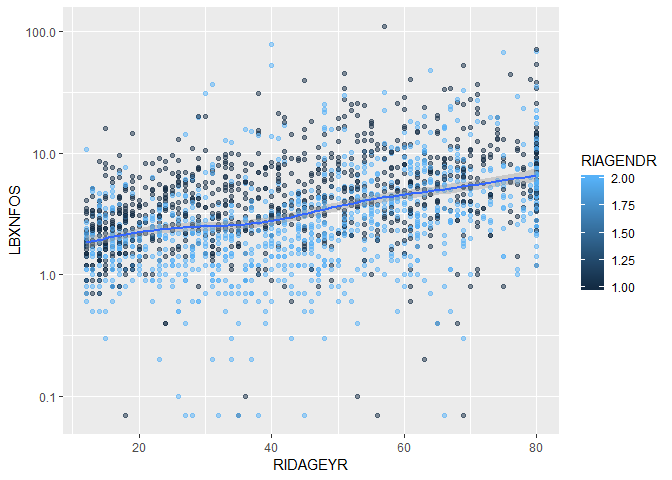
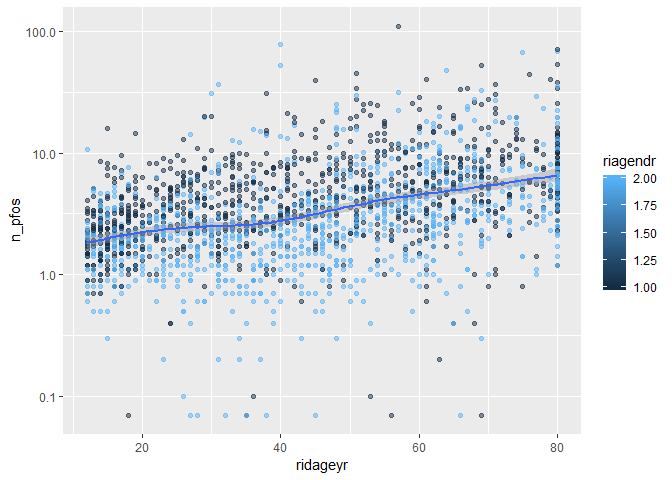
added daily intake section

diff --git a/aamehs_proposal.md b/aamehs_proposal.md
@@ -11,6 +11,7 @@ February 13, 2019
         -   [3. Serum PFAS levels serve as a mediator between water/food consumption and body mass.](#serum-pfas-levels-serve-as-a-mediator-between-waterfood-consumption-and-body-mass.)
         -   [Additional: PFAS levels are associated with other chemicals in serum which are common pollutants at industrial sites or airfields](#additional-pfas-levels-are-associated-with-other-chemicals-in-serum-which-are-common-pollutants-at-industrial-sites-or-airfields)
     -   [Data Source: NHANES](#data-source-nhanes)
+    -   [NHANES Dietary Interviews](#nhanes-dietary-interviews)
     -   [PFAS](#pfas)
         -   [Load and Inspect PFAS data](#load-and-inspect-pfas-data)
         -   [Basic 2015-2016 PFAS summary table](#basic-2015-2016-pfas-summary-table)
@@ -65,6 +66,8 @@ Potential confounders, effect modifiers, or co-variates of interest:
 -   smoking status
 -   household income
 -   alcohol
+-   waist circumference, 2 years of age and older
+-   sagittal abdominal diameter, 8 years of age and older
 
 *References*: <https://www.ncbi.nlm.nih.gov/pubmed/?term=PFAS+and+BMI>
 
@@ -119,6 +122,22 @@ files %>% count(component)
     ## 4 laboratory      643
     ## 5 questionnaire   438
 
+NHANES Dietary Interviews
+-------------------------
+
+*Reference*: <https://wwwn.cdc.gov/Nchs/Nhanes/2015-2016/DR1IFF_I.htm>
+
+Detailed information about each food/beverage item (including the description, amount of, and nutrient content) reported by each participant is included in the Individual Foods files.
+
+-   Drinking water variables:
+
+    -   Total plain water drank yesterday (gm)
+    -   Total tap water drank yesterday (gm)
+    -   Total bottled water drank yesterday (gm)
+    -   Tap water source
+
+-   Fish consumption during past 30 days (by type)
+
 PFAS
 ----
 
@@ -127,12 +146,15 @@ PFAS
 NHANES Codebook References: <https://wwwn.cdc.gov/Nchs/Nhanes/2013-2014/PFAS_H.htm> <https://wwwn.cdc.gov/Nchs/Nhanes/2015-2016/PFAS_I.htm>
 
 ``` r
-pfas_data <- nhanes_load_data("PFAS_I", "2015-2016", demographics = TRUE)
+pfas_data <- nhanes_load_data("PFAS_I", "2015-2016", demographics = TRUE) %>% 
+  janitor::clean_names() %>% 
+  rename(pfdea = lbxpfde, pfhxs = lbxpfhs, me_pfosa_acoh = lbxmpah, pfna = lbxpfna, pfua = lbxpfua, pfdoa = lbxpfdo, n_pfoa = lbxnfoa,  sb_pfoa = lbxbfoa, n_pfos = lbxnfos,    sm_pfos = lbxmfos)
+  
 as_tibble(pfas_data)
 ```
 
     ## # A tibble: 2,170 x 72
-    ##     SEQN cycle SDDSRVYR RIDSTATR RIAGENDR RIDAGEYR RIDAGEMN RIDRETH1
+    ##     seqn cycle sddsrvyr ridstatr riagendr ridageyr ridagemn ridreth1
     ##    <dbl> <chr>    <dbl>    <dbl>    <dbl>    <dbl>    <dbl>    <dbl>
     ##  1 83736 2015~        9        2        2       42       NA        4
     ##  2 83745 2015~        9        2        2       15       NA        3
@@ -144,30 +166,30 @@ as_tibble(pfas_data)
     ##  8 83770 2015~        9        2        1       15       NA        4
     ##  9 83774 2015~        9        2        2       13       NA        3
     ## 10 83776 2015~        9        2        2       58       NA        1
-    ## # ... with 2,160 more rows, and 64 more variables: RIDRETH3 <dbl>,
-    ## #   RIDEXMON <dbl>, RIDEXAGM <dbl>, DMQMILIZ <dbl>, DMQADFC <dbl>,
-    ## #   DMDBORN4 <dbl>, DMDCITZN <dbl>, DMDYRSUS <dbl>, DMDEDUC3 <dbl>,
-    ## #   DMDEDUC2 <dbl>, DMDMARTL <dbl>, RIDEXPRG <dbl>, SIALANG <dbl>,
-    ## #   SIAPROXY <dbl>, SIAINTRP <dbl>, FIALANG <dbl>, FIAPROXY <dbl>,
-    ## #   FIAINTRP <dbl>, MIALANG <dbl>, MIAPROXY <dbl>, MIAINTRP <dbl>,
-    ## #   AIALANGA <dbl>, DMDHHSIZ <dbl>, DMDFMSIZ <dbl>, DMDHHSZA <dbl>,
-    ## #   DMDHHSZB <dbl>, DMDHHSZE <dbl>, DMDHRGND <dbl>, DMDHRAGE <dbl>,
-    ## #   DMDHRBR4 <dbl>, DMDHREDU <dbl>, DMDHRMAR <dbl>, DMDHSEDU <dbl>,
-    ## #   WTINT2YR <dbl>, WTMEC2YR <dbl>, SDMVPSU <dbl>, SDMVSTRA <dbl>,
-    ## #   INDHHIN2 <dbl>, INDFMIN2 <dbl>, INDFMPIR <dbl>, WTSB2YR <dbl>,
-    ## #   LBXPFDE <dbl>, LBDPFDEL <dbl>, LBXPFHS <dbl>, LBDPFHSL <dbl>,
-    ## #   LBXMPAH <dbl>, LBDMPAHL <dbl>, LBXPFNA <dbl>, LBDPFNAL <dbl>,
-    ## #   LBXPFUA <dbl>, LBDPFUAL <dbl>, LBXPFDO <dbl>, LBDPFDOL <dbl>,
-    ## #   LBXNFOA <dbl>, LBDNFOAL <dbl>, LBXBFOA <dbl>, LBDBFOAL <dbl>,
-    ## #   LBXNFOS <dbl>, LBDNFOSL <dbl>, LBXMFOS <dbl>, LBDMFOSL <dbl>,
-    ## #   file_name <chr>, begin_year <dbl>, end_year <dbl>
+    ## # ... with 2,160 more rows, and 64 more variables: ridreth3 <dbl>,
+    ## #   ridexmon <dbl>, ridexagm <dbl>, dmqmiliz <dbl>, dmqadfc <dbl>,
+    ## #   dmdborn4 <dbl>, dmdcitzn <dbl>, dmdyrsus <dbl>, dmdeduc3 <dbl>,
+    ## #   dmdeduc2 <dbl>, dmdmartl <dbl>, ridexprg <dbl>, sialang <dbl>,
+    ## #   siaproxy <dbl>, siaintrp <dbl>, fialang <dbl>, fiaproxy <dbl>,
+    ## #   fiaintrp <dbl>, mialang <dbl>, miaproxy <dbl>, miaintrp <dbl>,
+    ## #   aialanga <dbl>, dmdhhsiz <dbl>, dmdfmsiz <dbl>, dmdhhsza <dbl>,
+    ## #   dmdhhszb <dbl>, dmdhhsze <dbl>, dmdhrgnd <dbl>, dmdhrage <dbl>,
+    ## #   dmdhrbr4 <dbl>, dmdhredu <dbl>, dmdhrmar <dbl>, dmdhsedu <dbl>,
+    ## #   wtint2yr <dbl>, wtmec2yr <dbl>, sdmvpsu <dbl>, sdmvstra <dbl>,
+    ## #   indhhin2 <dbl>, indfmin2 <dbl>, indfmpir <dbl>, wtsb2yr <dbl>,
+    ## #   pfdea <dbl>, lbdpfdel <dbl>, pfhxs <dbl>, lbdpfhsl <dbl>,
+    ## #   me_pfosa_acoh <dbl>, lbdmpahl <dbl>, pfna <dbl>, lbdpfnal <dbl>,
+    ## #   pfua <dbl>, lbdpfual <dbl>, pfdoa <dbl>, lbdpfdol <dbl>, n_pfoa <dbl>,
+    ## #   lbdnfoal <dbl>, sb_pfoa <dbl>, lbdbfoal <dbl>, n_pfos <dbl>,
+    ## #   lbdnfosl <dbl>, sm_pfos <dbl>, lbdmfosl <dbl>, file_name <chr>,
+    ## #   begin_year <dbl>, end_year <dbl>
 
 ### Basic 2015-2016 PFAS summary table
 
 ``` r
 pfas_data %>%
-  select(SEQN, LBXPFDE, LBXPFHS, LBXMPAH,   LBXPFNA, LBXPFUA,   LBXPFDO, LBXNFOA,   LBXBFOA, LBXNFOS,   LBXMFOS) %>% 
-  gather(key = "analyte", value = "value", LBXPFDE:LBXMFOS) %>% 
+  select(seqn, pfdea, pfhxs, me_pfosa_acoh, pfna, pfua, pfdoa, n_pfoa, sb_pfoa, n_pfos, sm_pfos) %>% 
+  gather(key = "analyte", value = "value", pfdea:sm_pfos) %>% 
   group_by(analyte) %>% 
   na.omit() %>% 
   summarise(n = n(), 
@@ -176,25 +198,25 @@ pfas_data %>%
   knitr::kable(digits = 2)
 ```
 
-| analyte |     n|  mean|    sd|
-|:--------|-----:|-----:|-----:|
-| LBXBFOA |  1993|  0.07|  0.02|
-| LBXMFOS |  1993|  1.94|  1.88|
-| LBXMPAH |  1993|  0.17|  0.27|
-| LBXNFOA |  1993|  1.81|  1.63|
-| LBXNFOS |  1993|  5.10|  6.84|
-| LBXPFDE |  1993|  0.26|  0.45|
-| LBXPFDO |  1993|  0.07|  0.01|
-| LBXPFHS |  1993|  1.61|  1.75|
-| LBXPFNA |  1993|  0.78|  0.70|
-| LBXPFUA |  1993|  0.16|  0.26|
+| analyte         |     n|  mean|    sd|
+|:----------------|-----:|-----:|-----:|
+| me\_pfosa\_acoh |  1993|  0.17|  0.27|
+| n\_pfoa         |  1993|  1.81|  1.63|
+| n\_pfos         |  1993|  5.10|  6.84|
+| pfdea           |  1993|  0.26|  0.45|
+| pfdoa           |  1993|  0.07|  0.01|
+| pfhxs           |  1993|  1.61|  1.75|
+| pfna            |  1993|  0.78|  0.70|
+| pfua            |  1993|  0.16|  0.26|
+| sb\_pfoa        |  1993|  0.07|  0.02|
+| sm\_pfos        |  1993|  1.94|  1.88|
 
 ### PFAS Boxplot
 
 ``` r
 pfas_data %>%
-  select(SEQN, LBXPFDE, LBXPFHS, LBXMPAH,   LBXPFNA, LBXPFUA,   LBXPFDO, LBXNFOA,   LBXBFOA, LBXNFOS,   LBXMFOS) %>% 
-  gather(key = "analyte", value = "value", LBXPFDE:LBXMFOS) %>% 
+  select(seqn, pfdea, pfhxs, me_pfosa_acoh, pfna, pfua, pfdoa, n_pfoa, sb_pfoa, n_pfos, sm_pfos) %>% 
+  gather(key = "analyte", value = "value",  pfdea:sm_pfos) %>% 
   group_by(analyte) %>% 
   na.omit() %>% 
   ggplot(aes(x = analyte, y = value)) +
@@ -208,8 +230,8 @@ pfas_data %>%
 
 ``` r
 pfas_data %>%
-  select(SEQN, LBXPFDE, LBXPFHS, LBXMPAH,   LBXPFNA, LBXPFUA,   LBXPFDO, LBXNFOA,   LBXBFOA, LBXNFOS,   LBXMFOS) %>% 
-  gather(key = "analyte", value = "value", LBXPFDE:LBXMFOS) %>% 
+  select(seqn, pfdea, pfhxs, me_pfosa_acoh, pfna, pfua, pfdoa, n_pfoa, sb_pfoa, n_pfos, sm_pfos) %>% 
+  gather(key = "analyte", value = "value", pfdea:sm_pfos) %>% 
   group_by(analyte) %>% 
   na.omit() %>% 
   filter(value < 10) %>% 
@@ -226,8 +248,8 @@ pfas_data %>%
 
 ``` r
 pfas_data %>% 
-  ggplot(aes(x = LBXNFOA, y = LBXNFOS)) + 
-  geom_point(aes(color = RIAGENDR), alpha = .5) +
+  ggplot(aes(x = n_pfoa, y = n_pfos)) + 
+  geom_point(aes(color = riagendr), alpha = .5) +
   geom_smooth(se = TRUE) +
     scale_x_log10() +
     scale_y_log10()
@@ -243,8 +265,8 @@ pfas_data %>%
 
 ``` r
 pfas_data %>% 
-  ggplot(aes(x = RIDAGEYR, y = LBXNFOS)) + 
-  geom_point(aes(color = RIAGENDR), alpha = .5) +
+  ggplot(aes(x = ridageyr, y = n_pfos)) + 
+  geom_point(aes(color = riagendr), alpha = .5) +
   geom_smooth(se = TRUE) +
     scale_y_log10()
 ```
